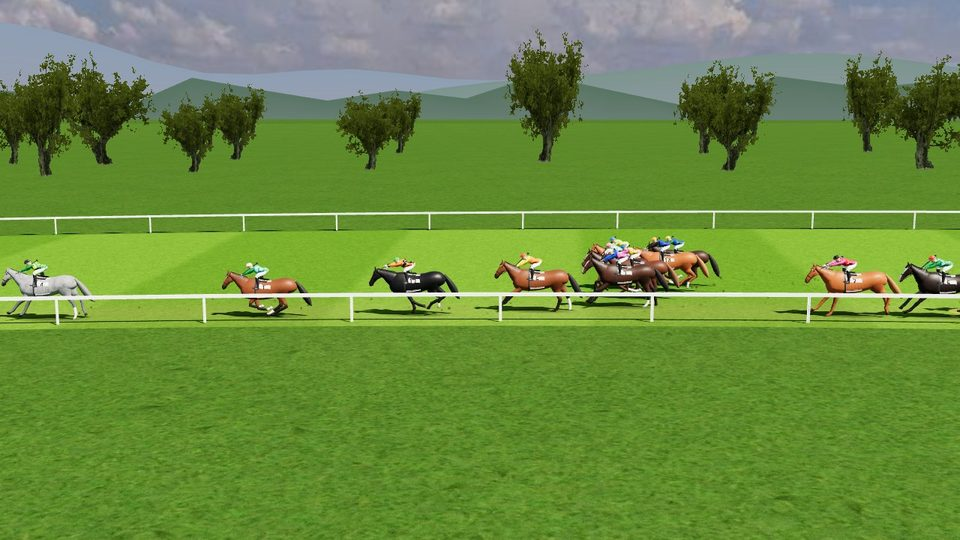
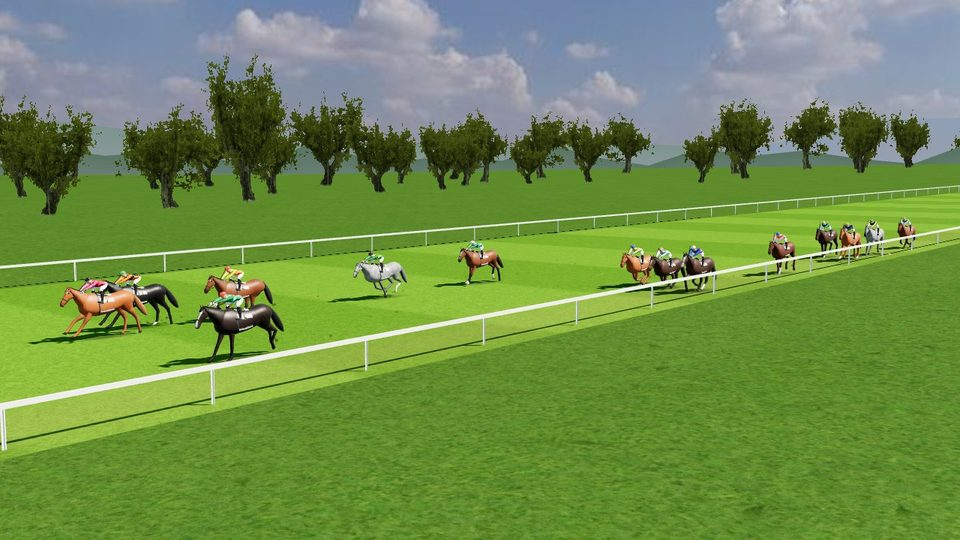
元の枝を取り込む（欧州のコースの形）・エプソムを実際の形で撮り直す
Claude-Session: https://claude.ai/code/session_01HiyoSLCN7tZdgF4e9KXg2H

diff --git a/docs/shots/terrain3d/README.md b/docs/shots/terrain3d/README.md
@@ -1,11 +1,11 @@
 # 3D のレースの地形・観客・影（枝 claude/lucid-ptolemy-j204a3-terrain3d）
 
-`NODE_PATH=$(npm root -g) node tools/shot3d.js docs/shots/terrain3d` で撮った絵を 960×540 に縮めたもの。中山・京都・新潟・東京は data/layouts.js の実際の形と高さ、エプソム（馬蹄形）は tools/shot3d.js の仮の形。
+`NODE_PATH=$(npm root -g) node tools/shot3d.js docs/shots/terrain3d` で撮った絵を 960×540 に縮めたもの。中山・京都・新潟・東京・エプソム（馬蹄形）は data/layouts.js の実際の形と高さ（tools/shot3d.js の仮の形はデータが無い場だけに使う）。
 
 - `nakayama_*`：中山 芝2000（ゴール前の急坂・4コーナー）
 - `kyoto_*`：京都 芝2400（3コーナーの坂の上り下り）
 - `niigata1000_*`：新潟の直線1000m（中継・騎乗・ゲート）
-- `epsom_*`：馬蹄形のコース（周回しない・高低差 40m）
+- `epsom_*`：エプソムのダービーのコース（馬蹄形・周回しない）
 - `dirt_*`：東京 ダート1600（土の塊と蹄の跡・影）
 - `compare_*`：左が Godot の試作（docs/shots/compare の左半分）、右がこの枝のブラウザ版。同じ東京 芝2400 の同じ場面（馬の並びは別の模擬）
 - `result_bg.jpg`：結果の画面の背景にした止め絵（assets/ui_bg_result.js）
